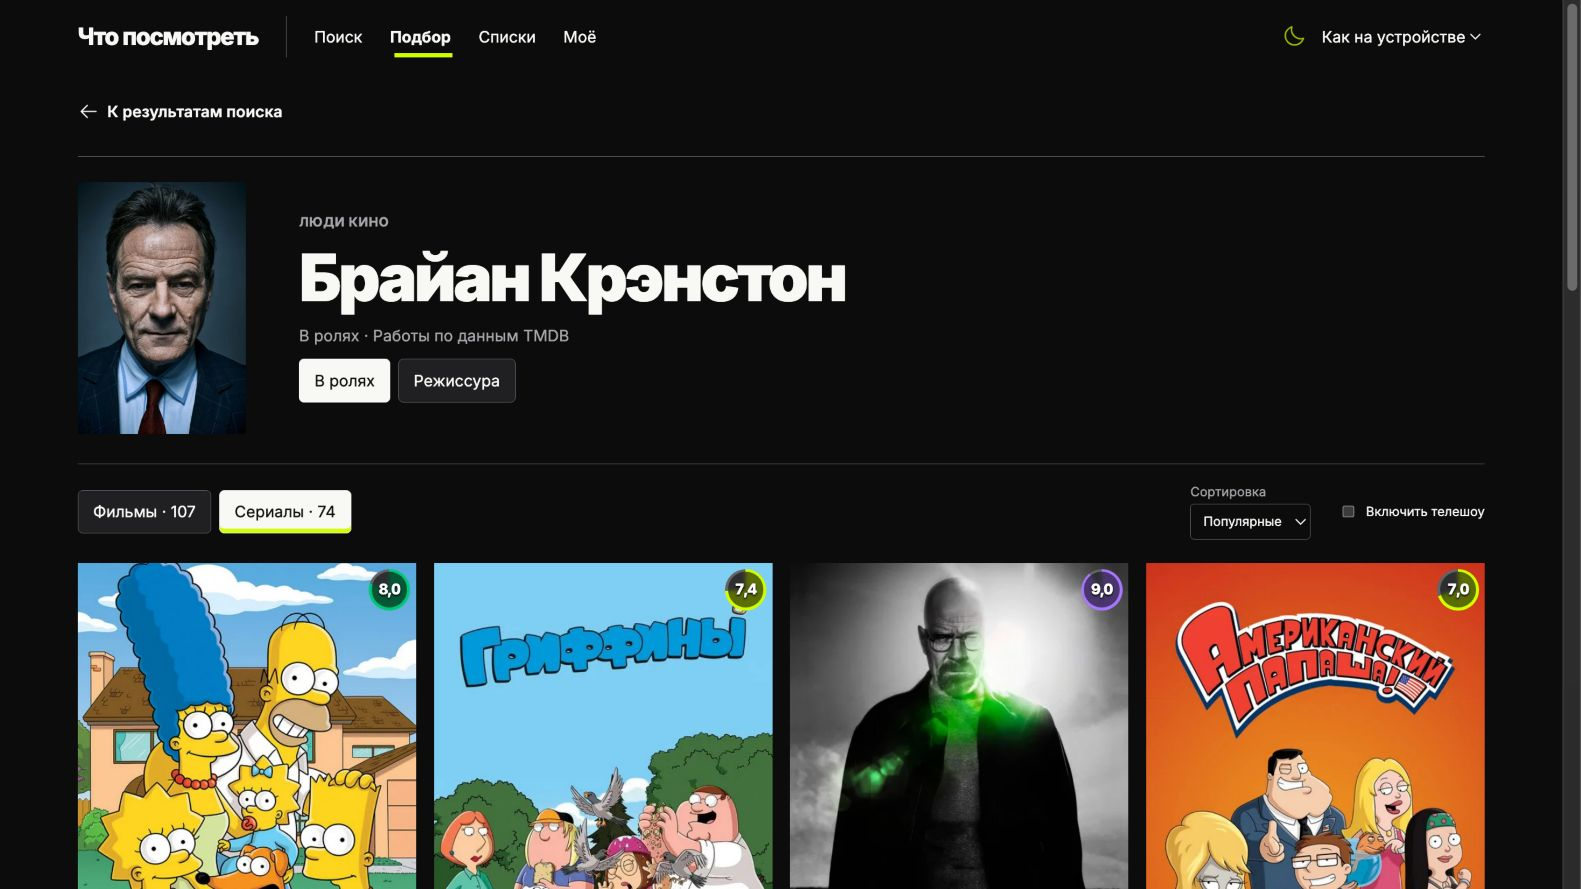
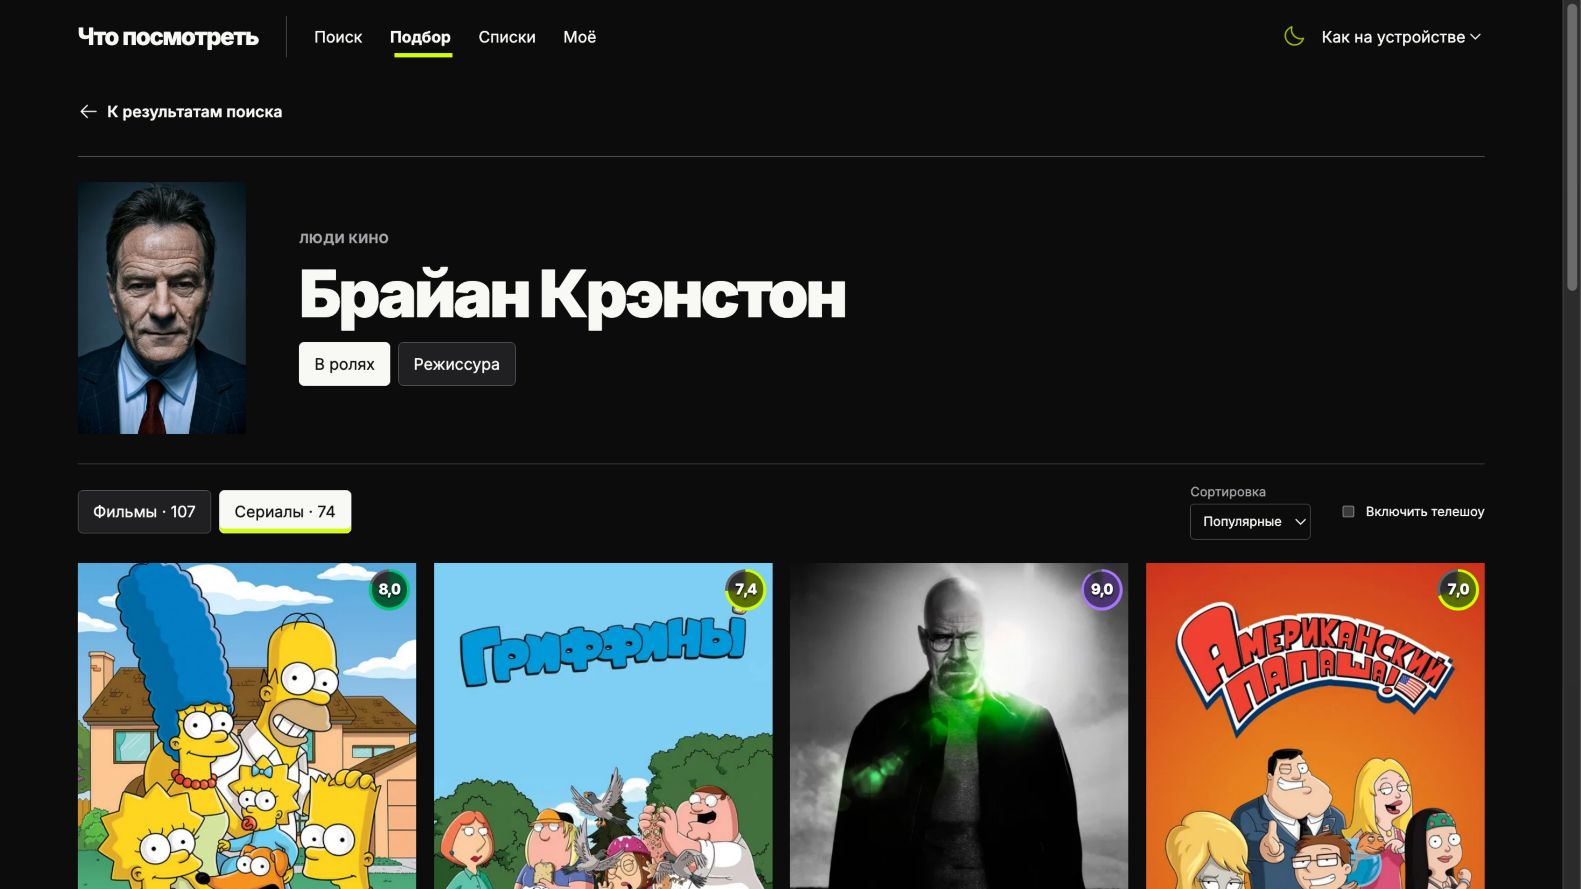
fix: убрать лишнюю подпись на странице человека

Changed region(s): [[0.186, 0.243, 0.5579, 0.4556]]

diff --git a/main.css b/main.css
@@ -230,8 +230,8 @@ html[data-route=detail] .list-view{display:none}
 .person-link{display:block;color:inherit;text-decoration:none}.person-link:hover .person-name,.person-link:focus-visible .person-name{text-decoration:underline;text-decoration-color:var(--lime);text-underline-offset:4px}.director-person .person-copy{width:100%}.director-person .person-link{display:flex;align-items:center;gap:18px}.director-person .person-link .person-portrait{flex:0 0 72px}.cast-person .person-portrait{width:100%}.person-name{display:block}.person-link .person-name{margin:6px 0 0}.person-link:focus-visible{outline:3px solid var(--lime);outline-offset:4px}
 .upcoming-label{display:inline-block;margin:3px 0 0;padding:3px 7px;background:var(--lime);color:#111;font-size:11px;font-weight:700;border-radius:3px}
 .detail-facts{gap:8px 18px;line-height:1.45}.detail-fact{display:inline-block;min-width:0;overflow-wrap:anywhere}.detail-fact strong{font-weight:600;color:var(--fg)}.detail-certificate{display:inline-block;border:1px solid var(--border);border-radius:4px;padding:3px 7px;color:var(--fg)}.detail-certificate strong{font-size:0}.detail-tagline{font-style:italic;color:var(--fg);opacity:.78;font-size:clamp(15px,1.5vw,20px);line-height:1.5;margin:24px 0 8px;max-width:60ch;overflow-wrap:anywhere}.detail-more{margin-top:26px;border-top:1px solid var(--border);padding-top:16px}.detail-more summary{cursor:pointer;font-weight:700;min-height:44px;padding:10px 0}.detail-more dl{display:grid;grid-template-columns:minmax(130px,190px) minmax(0,1fr);gap:10px 20px;margin:10px 0;line-height:1.5}.detail-more dt{color:var(--muted)}.detail-more dd{margin:0;overflow-wrap:anywhere}.detail-more-source{font-size:12px;color:var(--muted)}
-html[data-route=person] .list-view{display:none}html[data-route=person] .detail-page{display:none}.person-page{padding:18px 0 56px}.person-header{display:flex;align-items:center;gap:clamp(20px,4vw,54px);border-top:1px solid var(--border);padding:26px 0 30px}.person-hero-photo{width:170px;height:255px;object-fit:cover;background:var(--soft);flex:none}.person-page h1{font-size:clamp(34px,5vw,66px);line-height:1.05;letter-spacing:-.045em;margin:0;overflow-wrap:anywhere}.person-subtitle{color:var(--muted);margin:14px 0}.person-roles,.person-tabs{display:flex;flex-wrap:wrap;gap:8px}.person-roles button,.person-tabs button{border:1px solid var(--border);border-radius:5px;background:var(--soft);padding:11px 15px;min-height:44px}.person-roles button.chosen,.person-tabs button[aria-selected=true]{background:var(--fg);color:var(--invert);border-color:var(--fg)}.person-tabs button[aria-selected=true]{box-shadow:inset 0 -4px var(--lime)}.person-controls{display:flex;align-items:center;flex-wrap:wrap;gap:16px 28px;border-top:1px solid var(--border);padding:20px 0 8px}.person-sort-label{margin-left:auto;font-size:13px;color:var(--muted)}.person-sort-label select{display:block;margin-top:4px;background:var(--bg);color:var(--fg);border:1px solid var(--border);border-radius:4px;padding:9px}.person-shows{display:flex;align-items:center;gap:8px;min-height:44px;cursor:pointer;font-size:13px}.person-grid{grid-template-columns:repeat(4,minmax(0,1fr));margin-top:16px}.person-empty{grid-column:1/-1;color:var(--muted);padding:30px 0}.person-page .card{color:inherit;text-decoration:none}.person-page .card h3{font-size:15px}
-@media(max-width:760px){.hero form{display:block}.search-box{width:100%}.search-option{min-height:52px}.search-suggestions{max-height:min(42vh,320px)}#search-controls .types{display:grid;grid-template-columns:repeat(2,minmax(0,1fr));gap:4px}#search-controls .types button{width:auto}.person-page{padding:8px 0 40px}.person-header{gap:17px;align-items:flex-start}.person-hero-photo{width:105px;height:158px}.person-page h1{font-size:clamp(27px,8vw,40px)}.person-subtitle{font-size:12px}.person-controls{gap:10px}.person-tabs{width:100%}.person-tabs button{flex:1;padding:9px 8px}.person-sort-label{margin-left:0}.person-grid{grid-template-columns:repeat(2,minmax(0,1fr));gap:18px 14px}.director-person .person-link{gap:16px}.director-person .person-link .person-portrait{flex-basis:64px}.detail-facts{display:grid;gap:7px}.detail-more dl{grid-template-columns:1fr;gap:3px}.detail-more dd{margin-bottom:10px}}
+html[data-route=person] .list-view{display:none}html[data-route=person] .detail-page{display:none}.person-page{padding:18px 0 56px}.person-header{display:flex;align-items:center;gap:clamp(20px,4vw,54px);border-top:1px solid var(--border);padding:26px 0 30px}.person-hero-photo{width:170px;height:255px;object-fit:cover;background:var(--soft);flex:none}.person-page h1{font-size:clamp(34px,5vw,66px);line-height:1.05;letter-spacing:-.045em;margin:0;overflow-wrap:anywhere}.person-roles,.person-tabs{display:flex;flex-wrap:wrap;gap:8px}.person-roles{margin-top:14px}.person-roles button,.person-tabs button{border:1px solid var(--border);border-radius:5px;background:var(--soft);padding:11px 15px;min-height:44px}.person-roles button.chosen,.person-tabs button[aria-selected=true]{background:var(--fg);color:var(--invert);border-color:var(--fg)}.person-tabs button[aria-selected=true]{box-shadow:inset 0 -4px var(--lime)}.person-controls{display:flex;align-items:center;flex-wrap:wrap;gap:16px 28px;border-top:1px solid var(--border);padding:20px 0 8px}.person-sort-label{margin-left:auto;font-size:13px;color:var(--muted)}.person-sort-label select{display:block;margin-top:4px;background:var(--bg);color:var(--fg);border:1px solid var(--border);border-radius:4px;padding:9px}.person-shows{display:flex;align-items:center;gap:8px;min-height:44px;cursor:pointer;font-size:13px}.person-grid{grid-template-columns:repeat(4,minmax(0,1fr));margin-top:16px}.person-empty{grid-column:1/-1;color:var(--muted);padding:30px 0}.person-page .card{color:inherit;text-decoration:none}.person-page .card h3{font-size:15px}
+@media(max-width:760px){.hero form{display:block}.search-box{width:100%}.search-option{min-height:52px}.search-suggestions{max-height:min(42vh,320px)}#search-controls .types{display:grid;grid-template-columns:repeat(2,minmax(0,1fr));gap:4px}#search-controls .types button{width:auto}.person-page{padding:8px 0 40px}.person-header{gap:17px;align-items:flex-start}.person-hero-photo{width:105px;height:158px}.person-page h1{font-size:clamp(27px,8vw,40px)}.person-roles button{padding:9px 10px}.person-controls{gap:10px}.person-tabs{width:100%}.person-tabs button{flex:1;padding:9px 8px}.person-sort-label{margin-left:0}.person-grid{grid-template-columns:repeat(2,minmax(0,1fr));gap:18px 14px}.director-person .person-link{gap:16px}.director-person .person-link .person-portrait{flex-basis:64px}.detail-facts{display:grid;gap:7px}.detail-more dl{grid-template-columns:1fr;gap:3px}.detail-more dd{margin-bottom:10px}}
 @media(hover:none){.card:hover .poster img{transform:none}.card:hover .poster:after{transform:scaleX(0)}.find:hover .icon-arrow-right{transform:none}}
 @media(prefers-reduced-motion:reduce){.skip-link{transition:none}}
 

diff --git a/fetchscript.js b/fetchscript.js
@@ -1084,7 +1084,7 @@ function renderPerson(data) {
   const heading = node('h1', '', person.name);
   heading.id = 'person-title';
   heading.tabIndex = -1;
-  intro.append(node('p', 'detail-kicker', 'Люди кино'), heading, node('p', 'person-subtitle', 'Работы по данным TMDB'));
+  intro.append(node('p', 'detail-kicker', 'Люди кино'), heading);
   const roleButtons = node('div', 'person-roles');
   roleButtons.setAttribute('role', 'group');
   roleButtons.setAttribute('aria-label', 'Участие');
@@ -1175,7 +1175,6 @@ function renderPersonWorks(data) {
   if (!works) return;
   const role = state.role;
   const type = state.personTab;
-  els.personContent.querySelector('.person-subtitle').textContent = `${role === 'directing' ? 'Режиссура' : 'В ролях'} · Работы по данным TMDB`;
   const active = personWorks(credits, { role, type, sort: state.personSort, shows: state.shows });
   for (const button of els.personContent.querySelectorAll('[data-role]')) {
     button.setAttribute('aria-pressed', String(button.dataset.role === role));

diff --git a/index.html b/index.html
@@ -17,7 +17,7 @@
   <link rel="preconnect" href="https://fonts.googleapis.com">
   <link rel="preconnect" href="https://fonts.gstatic.com" crossorigin>
   <link rel="stylesheet" href="https://fonts.googleapis.com/css2?family=Inter:wght@400;500;600;700;800;900&amp;display=swap">
-  <link rel="stylesheet" href="main.css?v=20261012people4">
+  <link rel="stylesheet" href="main.css?v=20261015people4">
   <link rel="stylesheet" href="spinner.css?v=20261012spinner7">
   <style>
     html.startup-active { overflow: hidden; }
@@ -42,7 +42,7 @@
   <link rel="modulepreload" href="library.js?v=20261007perf2">
   <link rel="modulepreload" href="share.js?v=20261007perf2">
   <link rel="modulepreload" href="editorial.js?v=20261007perf2">
-  <script type="module" src="fetchscript.js?v=20261015people1"></script>
+  <script type="module" src="fetchscript.js?v=20261015people3"></script>
 </head>
 <body>
   <div id="startup-overlay" class="startup-overlay" role="status" aria-live="polite" aria-label="Загрузка сайта">

diff --git a/sw.js b/sw.js
@@ -1,9 +1,9 @@
-const CACHE_NAME = 'movie-db-shell-v23';
+const CACHE_NAME = 'movie-db-shell-v26';
 const APP_SHELL = [
   './',
   './index.html',
-  './main.css?v=20261012people4',
-  './fetchscript.js?v=20261015people1',
+  './main.css?v=20261015people4',
+  './fetchscript.js?v=20261015people3',
   './spinner.js?v=20261012spinner7',
   './spinner.css?v=20261012spinner7',
   './poster-readiness.js?v=20261012spinner7',

diff --git a/docs/harness/EVIDENCE.md b/docs/harness/EVIDENCE.md
@@ -60,4 +60,6 @@
 
 [Черновой PR №22](https://github.com/kudashof/kudashof.github.io/pull/22) открыт без конфликтов с `master`; [PR №20](https://github.com/kudashof/kudashof.github.io/pull/20) закрыт как устаревший. Публикация и публичная проверка ожидают отдельного решения.
 
+15 октября 2026: по замечанию Алексея со страницы человека убрана дублирующая подпись «В ролях · Работы по данным TMDB»; переключатель ролей сохранён. Обновлены локальные снимки [компьютера](evidence/people-001/people-person-desktop-local.png) и [телефона](evidence/people-001/people-person-mobile-local.png). В браузере на 390 CSS px подтверждены отсутствие подписи, обе кнопки в одном ряду и отсутствие горизонтального переполнения. Алексей сообщил, что остальной вид пока подходит. Эти факты не подтверждают публикацию, Safari на физическом iPhone или установленную PWA.
+
 12 октября 2026: работа на ветке `codex/people-search-filmography` от `origin/master` 93f75f7. Локально прошли `npm run check` и 65 тестов. Встроенный браузер с реальным TMDB: запрос «инте» дал подсказки «Интерстеллар» и «Интервью»; карточка фильма 157336 показала RU 12+, дату, страны, жанры, длительность 2 ч 49 мин и слоган; ссылка на режиссёра открыла Кристофера Нолана с двумя вкладками. Поиск человека по имени «Брайан Крэнстон» дал отдельный результат с типами известных работ; его сериалы показывают 74 уникальные записи после исключения жанров Talk/News, возврат из «Во все тяжкие» восстановил вкладку TV. Переключатель режиссуры показал 2 фильма и 7 сериалов с подписью «Режиссура эпизодов». Карточка сериала показала RU 18+, длительность последней серии с точной подписью, 5 сезонов и 62 серии. На проверенной мобильной ширине 390 CSS px страница человека и подсказки не переполняли viewport; также проверены 320, 767 и 1440 CSS px, обе темы. Снимки локальной версии: [живой поиск](evidence/people-001/people-search-desktop-local.png), [актёр на компьютере](evidence/people-001/people-person-desktop-local.png), [актёр на телефоне](evidence/people-001/people-person-mobile-local.png), [карточка фильма](evidence/people-001/people-detail-desktop-local.png). Локальные проверки не подтверждают Pages, публичный URL, Safari на физическом iPhone или установленную PWA; визуальная приёмка Алексеем остаётся открытой.

diff --git a/docs/harness/features/people-search-and-detail.md b/docs/harness/features/people-search-and-detail.md
@@ -55,4 +55,4 @@
 
 Статус решения: `approved`
 
-12 октября 2026 года Алексей написал: «запускай на выполнение все пункты ТЗ». Первоначальный [черновой PR №20](https://github.com/kudashof/kudashof.github.io/pull/20) создан до выпуска полноэкранного спиннера и закрыт как устаревший. 15 октября код перенесён на актуальный `master` в ветку `codex/people-search-ready` и открыт [черновой PR №22](https://github.com/kudashof/kudashof.github.io/pull/22). Визуальное утверждение и разрешение на production-merge остаются отдельными воротами, указанными в ТЗ и персональных AGENTS.md-инструкциях Алексея.
+12 октября 2026 года Алексей написал: «запускай на выполнение все пункты ТЗ». Первоначальный [черновой PR №20](https://github.com/kudashof/kudashof.github.io/pull/20) создан до выпуска полноэкранного спиннера и закрыт как устаревший. 15 октября код перенесён на актуальный `master` в ветку `codex/people-search-ready` и открыт [черновой PR №22](https://github.com/kudashof/kudashof.github.io/pull/22). После просмотра Алексей согласовал удаление пояснения «Работы по данным TMDB» и сообщил, что остальной вид пока подходит. Разрешение на production-merge остаётся отдельным шагом согласно ТЗ и персональным AGENTS.md-инструкциям Алексея.

diff --git a/docs/harness/README.md b/docs/harness/README.md
@@ -52,7 +52,7 @@
 | [PROVIDERS-001 «Где смотреть»](features/watch-providers.md) | Одобрено исследование | Не начат | Нет | Не применимо |
 
 | [CAST-001 Состав](features/cast.md) | Реализация и публикация одобрены | Готов | Публичная версия проверена | Физический iPhone остаётся открытым |
-| [PEOPLE-001 Люди и живой поиск](features/people-search-and-detail.md) | Реализация одобрена | Готов | Ветка | Визуальная и физическая приёмка открыта |
+| [PEOPLE-001 Люди и живой поиск](features/people-search-and-detail.md) | Реализация одобрена | Готов | PR | Дизайн согласован; физическая приёмка открыта |
 
 Основания и пределы каждого утверждения находятся в [`EVIDENCE.md`](EVIDENCE.md). Нельзя повышать состояние по более слабому доказательству или по дате без новой проверки.
 
